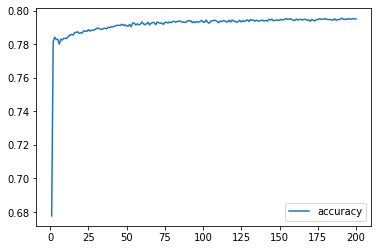
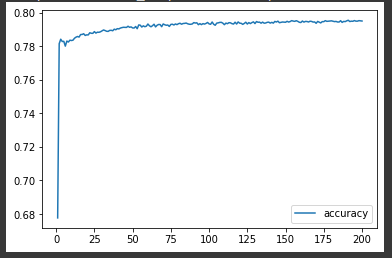
Finalized Readme
Also updated one image

Changed region(s): [[0.0, 0.0, 1.0, 1.0]]

diff --git a/README.md b/README.md
@@ -1,1 +1,42 @@
 # Neural_Network_Charity
+
+### Analysis Overview
+
+The purpose of this analysis was to use a neural network model to determine if a loan application is successful or not. Multiple neural network models were built & optimized to try and get above a 75% analysis prediction success rate. Some of the features used in the model included application type, organization affiliation, and income amount. The last model that was created ended up with a 78% accuracy.
+
+
+
+### Results
+
+
+
+- Data Preprocessing
+
+  - IS_SUCCESSFULL was the target variable in the model. 
+  - Name, Application Type, Affiliation, Classification, Use case, organization, status, income amount, special considerations, and ask amount were the features in the last model created. Name was originally left out, but after looking into the dataset in became clear that some names showed up hundreds of times. If the same organization routinely passed or failed, then that information could be used in the model. 
+  - EIN status was the only variable that ended up being removed from all models. This variable was just a number that is unique to the application.
+
+- Compiling, Training, and Evaluating the Model
+
+  - The final neural network used 260 neurons in the input layer, one neuron in the output layer, and 18 neurons total in the three hidden layers. Three hidden layers were used in the final model as well to boost power. It is likely that 75%+ performance could have been achieved with just one or two hidden layers, but I wanted to make the last model attempt as powerful as possible. The activation function for the input layer, second hidden layer, and third hidden layer was a sigmoid function. I primarily used a Sigmoid function because sigmoid functions work well with binary classification problems as sigmoid functions return either a 0 or a 1, which is what we are eventually returning in the model. I used a relu function in the first hidden layer, but it would be interesting to run the model again with a sigmoid function being used in all inputs. 
+
+  - I was able to get to 78% in my final model. 
+
+    ![Final Summary](https://raw.githubusercontent.com/tbrech4/Neural_Network_Charity/main/Resources/final_summary.png)
+
+  ![Loss Curve Final Model](https://raw.githubusercontent.com/tbrech4/Neural_Network_Charity/main/Resources/loss_curve_two.png)
+
+  The loss curve seems to continue to get lower, but once it gets to 100 the changes are very gradual. 
+
+  ![Final Accuracy](https://raw.githubusercontent.com/tbrech4/Neural_Network_Charity/main/Resources/accuracy_two.png)
+
+  Accuracy seems to peak around 100 epochs - proving the last 100 epochs were likely not needed.
+
+  
+
+  - I took multiple steps to make the last model attempt as powerful as possible. I added a third hidden layer and also reintroduced the name feature into the model - dramatically increasing the number of columns in the final dataframe used for analysis. I also increased the number of epochs to 200 just to make sure the model could reach as high of a accuracy as it possibly could. This was most likely not necessary, and the extra epochs just made the final model fit take longer. 
+
+### Summary
+
+Overall the final model proved to be a success, with a final accuracy of 78%. However, the model took quite some time to run, and I likely used more epochs than necessary. It would be very interesting to use a Logistic regression model to see if it can predict success as well as the neural network does. A random forest could also be used to determine success. Both models are easier to explain than a deep neural network is, in addition to using less computing resources.  I would recommend first seeing how accurate a logistic regression model is in predicting success from this dataset. 
+
